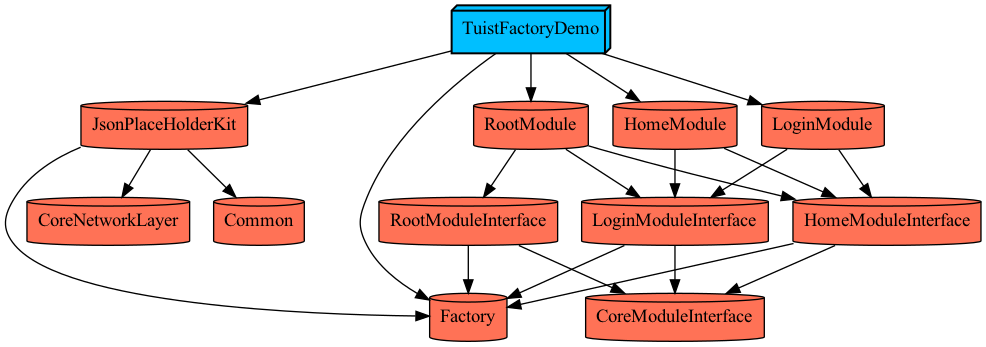
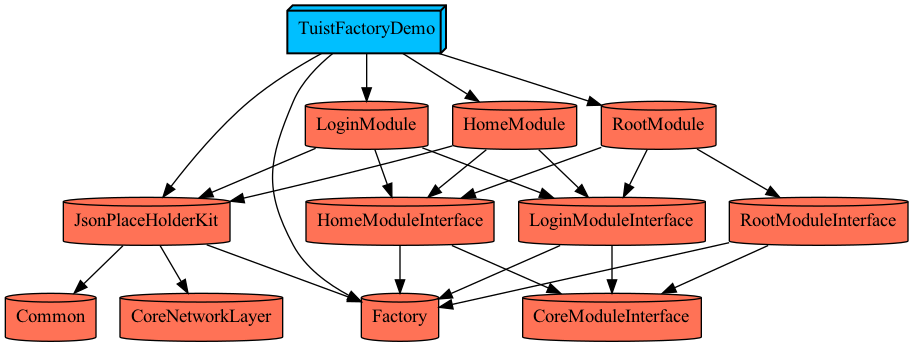
Home and Login Navigations Implemented

diff --git a/TuistFactoryDemo/Modules/LoginModule/Sources/Router/LoginRouter.swift b/TuistFactoryDemo/Modules/LoginModule/Sources/Router/LoginRouter.swift
@@ -1,9 +1,11 @@
 import UIKit
 import LoginModuleInterface
+import HomeModuleInterface
 import Factory
 
 // MARK: - LoginRouterInterface
 protocol LoginRouterInterface {
+    func navigateToHome()
 }
 // MARK: - LoginModuleInterface
 public final class LoginRouter: LoginModuleInterface {
@@ -26,4 +28,11 @@ public final class LoginRouter: LoginModuleInterface {
 
 // MARK: - LoginRouterInterface
 extension LoginRouter: LoginRouterInterface {
+    func navigateToHome() {
+        guard let homeModule = Container.homeModule() else {
+            return
+        }
+        let home = homeModule.createModule(using: navigationController)
+        navigationController?.pushViewController(home, animated: true)
+    }
 }

diff --git a/TuistFactoryDemo/Modules/HomeModule/Sources/Router/HomeRouter.swift b/TuistFactoryDemo/Modules/HomeModule/Sources/Router/HomeRouter.swift
@@ -1,9 +1,11 @@
 import UIKit
 import HomeModuleInterface
+import LoginModuleInterface
 import Factory
 
 // MARK: - HomeRouterInterface
 protocol HomeRouterInterface {
+    func navigateToLogin()
 }
 // MARK: - HomeModuleInterface
 public final class HomeRouter: HomeModuleInterface {
@@ -26,4 +28,11 @@ public final class HomeRouter: HomeModuleInterface {
 
 // MARK: - HomeRouterInterface
 extension HomeRouter: HomeRouterInterface {
+    func navigateToLogin() {
+        guard let loginModule = Container.loginModule() else {
+            return
+        }
+        let login = loginModule.createModule(using: navigationController)
+        navigationController?.pushViewController(login, animated: true)
+    }
 }

diff --git a/TuistFactoryDemo/Modules/RootModule/Sources/Router/RootRouter.swift b/TuistFactoryDemo/Modules/RootModule/Sources/Router/RootRouter.swift
@@ -1,9 +1,11 @@
 import UIKit
 import RootModuleInterface
+import HomeModuleInterface
 import Factory
 
 // MARK: - RootRouterInterface
 protocol RootRouterInterface {
+    func navigateToHome()
 }
 // MARK: - RootModuleInterface
 public final class RootRouter: RootModuleInterface {
@@ -26,4 +28,11 @@ public final class RootRouter: RootModuleInterface {
 
 // MARK: - RootRouterInterface
 extension RootRouter: RootRouterInterface {
+    func navigateToHome() {
+        guard let homeModule = Container.homeModule() else {
+            return
+        }
+        let home = homeModule.createModule(using: navigationController)
+        navigationController?.pushViewController(home, animated: true)
+    }
 }

diff --git a/TuistFactoryDemo/Sources/ServiceLocatorEngine.swift b/TuistFactoryDemo/Sources/ServiceLocatorEngine.swift
@@ -8,12 +8,22 @@
 import Foundation
 import RootModule
 import RootModuleInterface
+import HomeModule
+import HomeModuleInterface
+import LoginModule
+import LoginModuleInterface
 import Factory
 
 final class ServiceLocatorEngine {
     func injectDependencies() {
         Container.rootModule.register {
             RootRouter()
+        }
+        Container.homeModule.register {
+            HomeRouter()
+        }
+        Container.loginModule.register {
+            LoginRouter()
         }
     }
 }

diff --git a/TuistFactoryDemo/Modules/LoginModule/Sources/Presenter/LoginPresenter.swift b/TuistFactoryDemo/Modules/LoginModule/Sources/Presenter/LoginPresenter.swift
@@ -2,6 +2,7 @@ import Foundation
 
 // MARK: - LoginPresenterInterface
 protocol LoginPresenterInterface {
+    func goToHome()
 }
 // MARK: - LoginInteractorOutputInterface
 protocol LoginInteractorOutputInterface: AnyObject {
@@ -21,6 +22,9 @@ final class LoginPresenter: LoginPresenterInterface {
         self.view = view
         self.interactor = interactor
         self.router = router
+    }
+    func goToHome() {
+        router?.navigateToHome()
     }
 }
 // MARK: - LoginInteractorOutputInterface

diff --git a/TuistFactoryDemo/Modules/HomeModule/Sources/Presenter/HomePresenter.swift b/TuistFactoryDemo/Modules/HomeModule/Sources/Presenter/HomePresenter.swift
@@ -2,6 +2,7 @@ import Foundation
 
 // MARK: - HomePresenterInterface
 protocol HomePresenterInterface {
+    func goToLogin()
 }
 // MARK: - HomeInteractorOutputInterface
 protocol HomeInteractorOutputInterface: AnyObject {
@@ -21,6 +22,9 @@ final class HomePresenter: HomePresenterInterface {
         self.view = view
         self.interactor = interactor
         self.router = router
+    }
+    func goToLogin() {
+        router?.navigateToLogin()
     }
 }
 // MARK: - HomeInteractorOutputInterface

diff --git a/TuistFactoryDemo/Modules/RootModule/Sources/Presenter/RootPresenter.swift b/TuistFactoryDemo/Modules/RootModule/Sources/Presenter/RootPresenter.swift
@@ -2,6 +2,7 @@ import Foundation
 
 // MARK: - RootPresenterInterface
 protocol RootPresenterInterface {
+    func goToHome()
 }
 // MARK: - RootInteractorOutputInterface
 protocol RootInteractorOutputInterface: AnyObject {
@@ -21,6 +22,9 @@ final class RootPresenter: RootPresenterInterface {
         self.view = view
         self.interactor = interactor
         self.router = router
+    }
+    func goToHome() {
+        router?.navigateToHome()
     }
 }
 // MARK: - RootInteractorOutputInterface

diff --git a/TuistFactoryDemo/Modules/LoginModule/Project.swift b/TuistFactoryDemo/Modules/LoginModule/Project.swift
@@ -6,7 +6,8 @@ private final class LoginModule: ModuleGenerator {
         var dependencies: [TargetDependency] = []
         dependencies.append(contentsOf: [
             AllDependencies.homeModuleInterfaceTargetDependency,
-            AllDependencies.loginModuleInterfaceTargetDependency
+            AllDependencies.loginModuleInterfaceTargetDependency,
+            AllDependencies.jsonPlaceHolderKit
         ])
         return dependencies
     }

diff --git a/TuistFactoryDemo/Modules/HomeModule/Project.swift b/TuistFactoryDemo/Modules/HomeModule/Project.swift
@@ -6,7 +6,8 @@ private final class HomeModule: ModuleGenerator {
         var dependencies: [TargetDependency] = []
         dependencies.append(contentsOf: [
             AllDependencies.homeModuleInterfaceTargetDependency,
-            AllDependencies.loginModuleInterfaceTargetDependency
+            AllDependencies.loginModuleInterfaceTargetDependency,
+            AllDependencies.jsonPlaceHolderKit
         ])
         return dependencies
     }

diff --git a/TuistFactoryDemo/Modules/LoginModule/Sources/View/LoginViewController.swift b/TuistFactoryDemo/Modules/LoginModule/Sources/View/LoginViewController.swift
@@ -10,6 +10,10 @@ final class LoginViewController: UIViewController {
     override func viewDidLoad() {
         super.viewDidLoad()
         title = "LoginViewController"
+        
+        DispatchQueue.main.asyncAfter(deadline: .now() + 1) {
+            self.presenter?.goToHome()
+        }
     }
 }
 // MARK: - PresenterOutputInterface

diff --git a/TuistFactoryDemo/Modules/HomeModule/Sources/View/HomeViewController.swift b/TuistFactoryDemo/Modules/HomeModule/Sources/View/HomeViewController.swift
@@ -10,6 +10,10 @@ final class HomeViewController: UIViewController {
     override func viewDidLoad() {
         super.viewDidLoad()
         title = "HomeViewController"
+        
+        DispatchQueue.main.asyncAfter(deadline: .now() + 1) {
+            self.presenter?.goToLogin()
+        }
     }
 }
 // MARK: - PresenterOutputInterface

diff --git a/TuistFactoryDemo/Modules/RootModule/Sources/View/RootViewController.swift b/TuistFactoryDemo/Modules/RootModule/Sources/View/RootViewController.swift
@@ -10,6 +10,10 @@ final class RootViewController: UIViewController {
     override func viewDidLoad() {
         super.viewDidLoad()
         title = "RootViewController"
+        
+        DispatchQueue.main.asyncAfter(deadline: .now() + 1) {
+            self.presenter?.goToHome()
+        }
     }
 }
 // MARK: - PresenterOutputInterface
